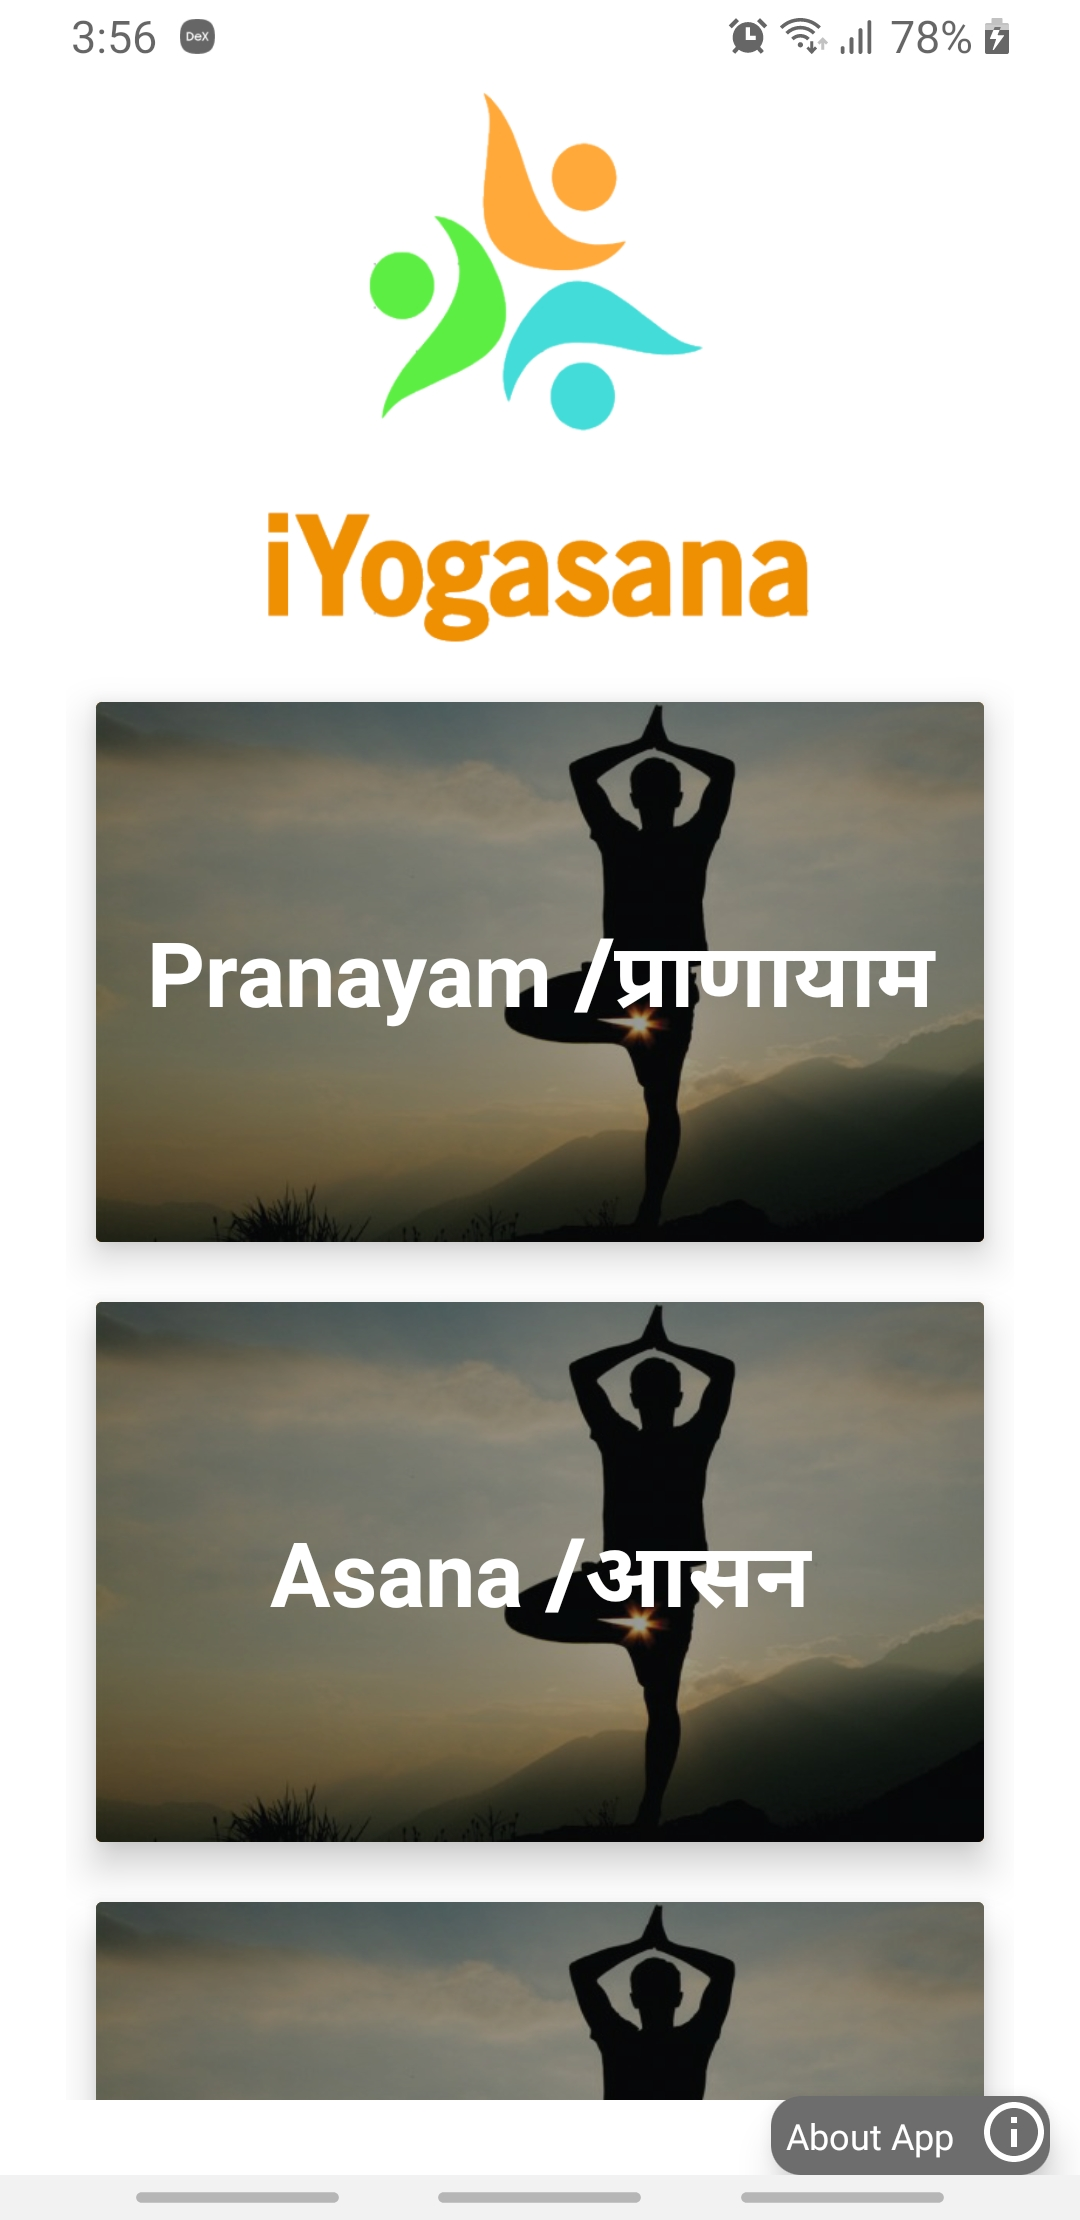
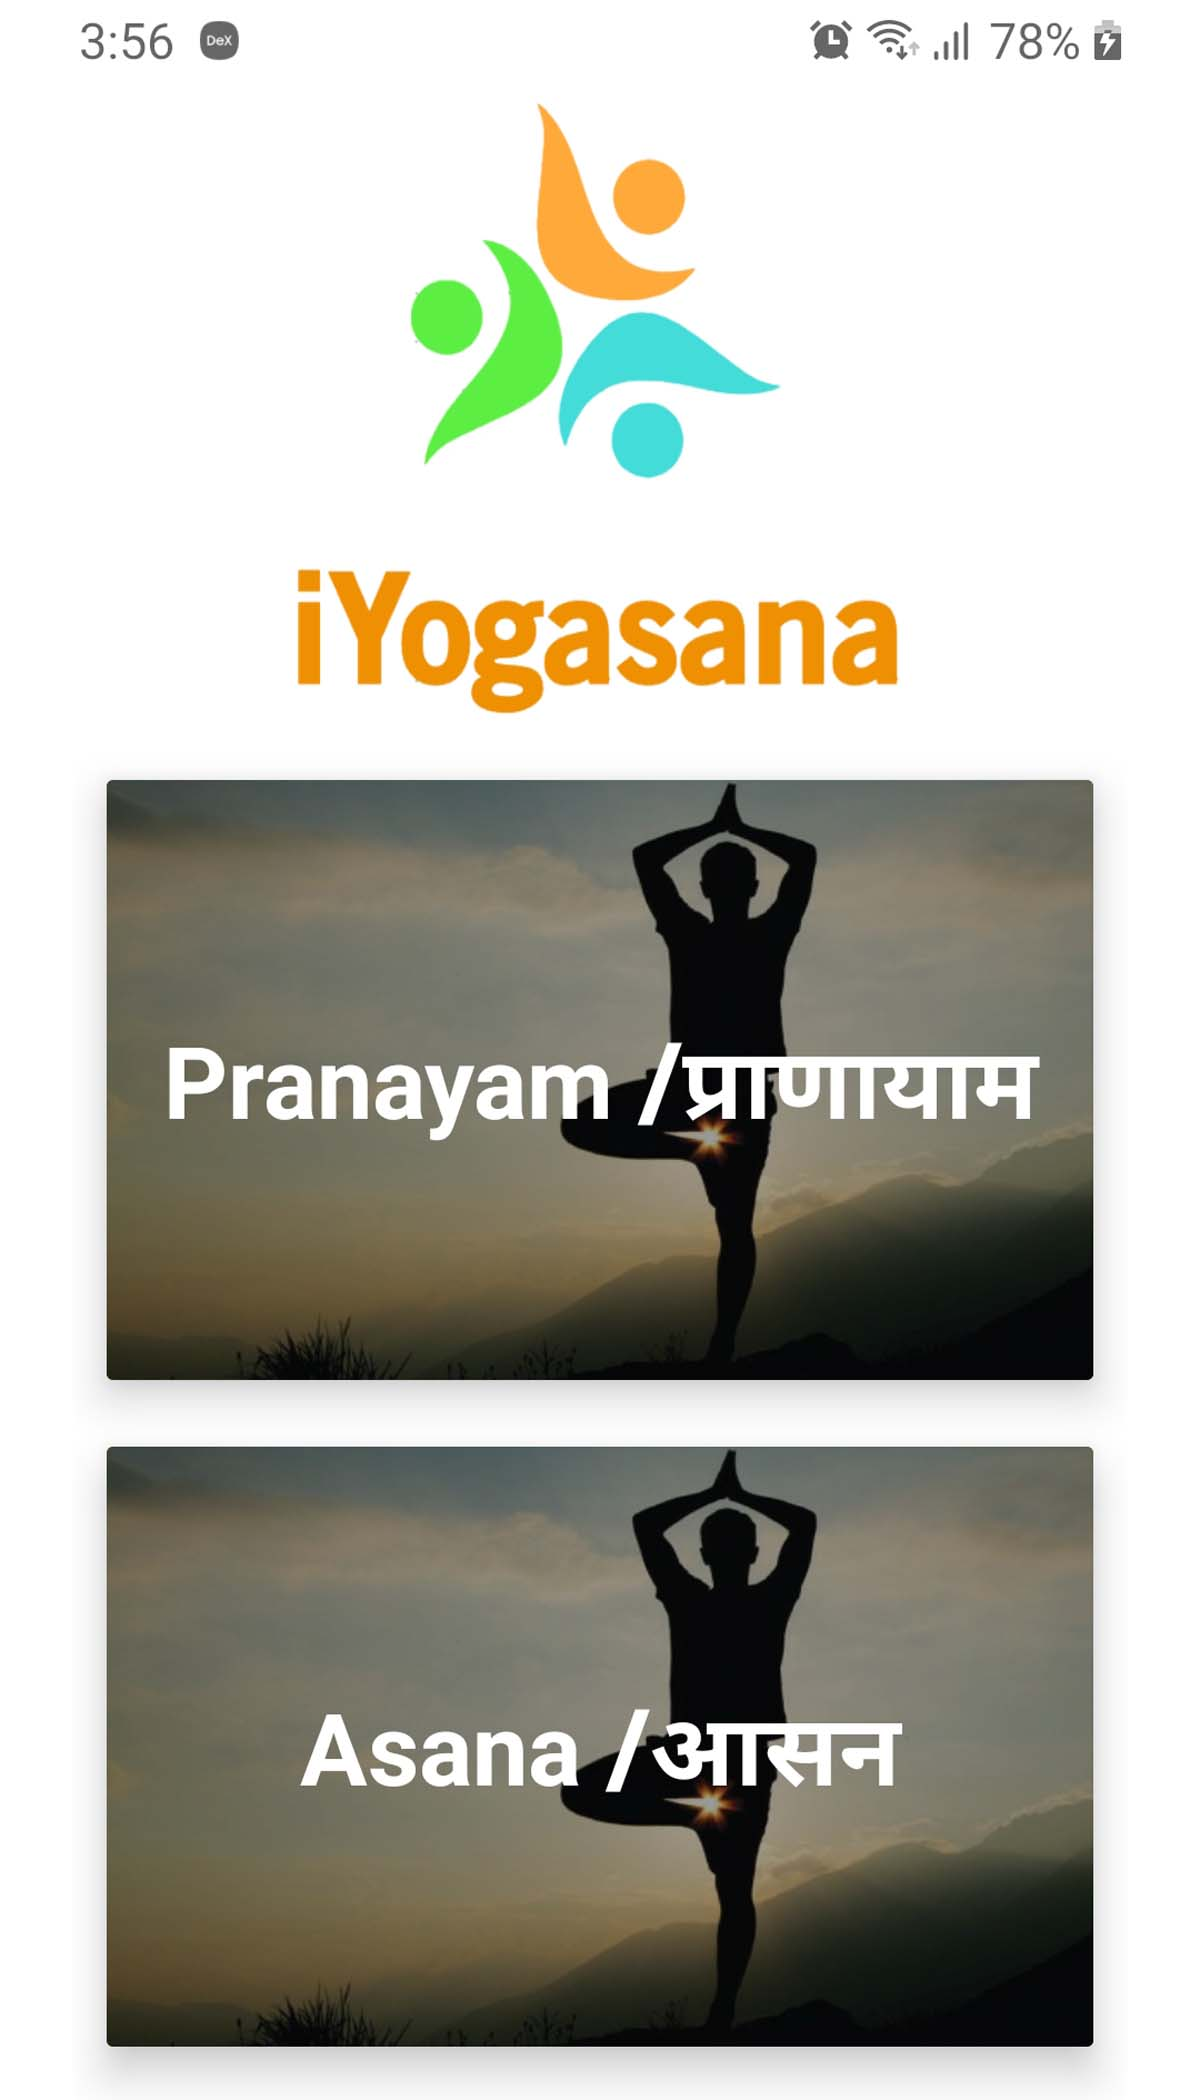
update image

diff --git a/index.html b/index.html
@@ -18,8 +18,10 @@
 			<header id="header">
 				<div class="content">
 					<h1><a href="#"></a>iYogasana</h1>
-					<p>Just a simple, single page responsive<br />
-					template brought to you by <a href="http://html5up.net">HTML5 UP</a></p>
+					<p>A Yoga App. An Ancient Yoga health system for<br />
+					 Modern life style to enhance Fitness Movement across world.
+					 <br/> Yuva Bharat mission.
+					</p>
 					<ul class="actions">
 						<li><a href="https://play.google.com/store/apps/details?id=org.thakurinfotech.asanayoga" class="button primary icon solid fa-download">Install</a></li>
 						<li><a href="#one" class="button icon solid fa-chevron-down scrolly">Learn More</a></li>
@@ -31,8 +33,8 @@
 		<!-- One -->
 			<section id="one" class="wrapper style2 special">
 				<header class="major">
-					<h2>Sed ipsum magna lorem tempus amet<br />
-					vehicula et gravida elementum</h2>
+					<h2>Simple Yoga Asana<br />
+					</h2>
 				</header>
 				<ul class="icons major">
 					<li><span class="icon solid fa-camera-retro"><span class="label">Shoot</span></span></li>
@@ -45,24 +47,26 @@
 			<section id="two" class="wrapper">
 				<div class="inner alt">
 					<section class="spotlight">
-						<div class="image"><img src="images/pic01.jpg" alt="" /></div>
+						<div class="image"><img src="2.jpg" alt="" /></div>
 						<div class="content">
-							<h3>Magna sed ultrices</h3>
+							<h3>Pranayam </h3>
 							<p>Morbi mattis ornare ornare. Duis quam turpis, gravida at leo elementum elit fusce accumsan dui libero, quis vehicula lectus ultricies eu. In convallis amet leo non sapien iaculis efficitur consequat lorem ipsum.</p>
 						</div>
 					</section>
 					<section class="spotlight">
-						<div class="image"><img src="images/pic02.jpg" alt="" /></div>
+						<div class="image"><img src="3.jpg" alt="" /></div>
 						<div class="content">
-							<h3>Ultrices nullam aliquam</h3>
+							<h3>Bhajan Audio-Video</h3>
 							<p>Morbi mattis ornare ornare. Duis quam turpis, gravida at leo elementum elit fusce accumsan dui libero, quis vehicula lectus ultricies eu. In convallis amet leo non sapien iaculis efficitur consequat lorem ipsum.</p>
 						</div>
 					</section>
 					<section class="spotlight">
-						<div class="image"><img src="images/pic03.jpg" alt="" /></div>
+						<div class="image"><img src="5.jpg" alt="" /></div>
 						<div class="content">
-							<h3>Aliquam sed magna</h3>
-							<p>Morbi mattis ornare ornare. Duis quam turpis, gravida at leo elementum elit fusce accumsan dui libero, quis vehicula lectus ultricies eu. In convallis amet leo non sapien iaculis efficitur consequat lorem ipsum.</p>
+							<h3>Daily News Update</h3>
+							<p>Morbi mattis ornare ornare. 
+								Duis quam turpis, gravida at leo elementum elit fusce accumsan dui libero, quis vehicula lectus ultricies eu. 
+								In convallis amet leo non sapien iaculis efficitur consequat lorem ipsum.</p>
 						</div>
 					</section>
 					<section class="special">
@@ -80,9 +84,10 @@
 		<!-- Three -->
 			<section id="three" class="wrapper style2 special">
 				<header class="major">
-					<h2>Magna leo sapien gravida</h2>
-					<p>Gravida at leo elementum elit fusce accumsan dui libero, quis vehicula<br />
-					lectus ultricies eu. In convallis amet leo sapien iaculis efficitur.</p>
+					<h2>iYogasana</h2>
+					<p> An Ancient Yoga health system for<br>
+						Modern life style to enhance Fitness Movement across world.<br>
+						Yuva Bharat mission..</p>
 				</header>
 				<ul class="actions special">
 					<li><a href="https://play.google.com/store/apps/details?id=org.thakurinfotech.asanayoga" class="button primary icon solid fa-download">Install</a></li>
